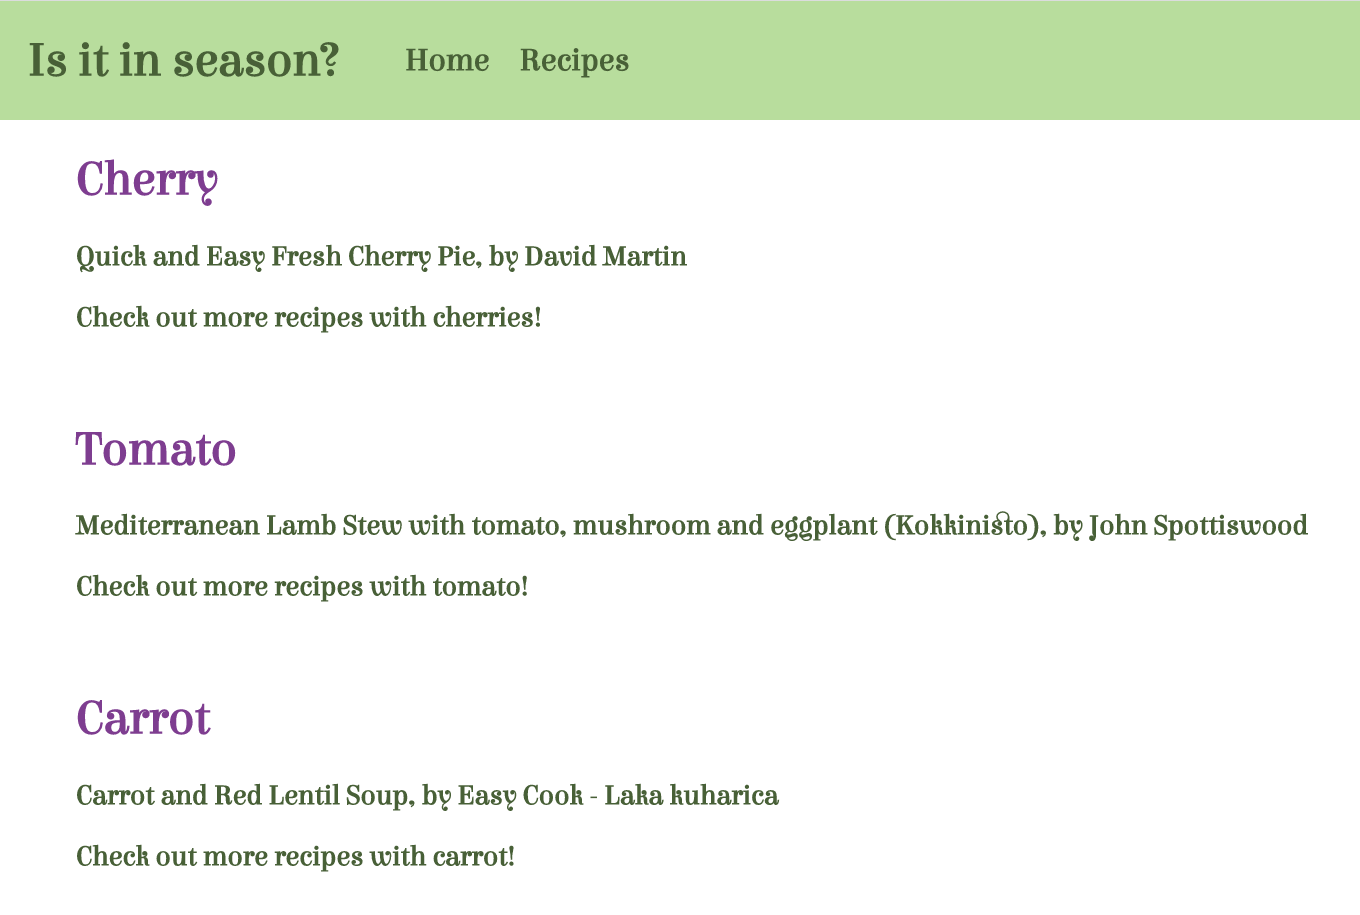
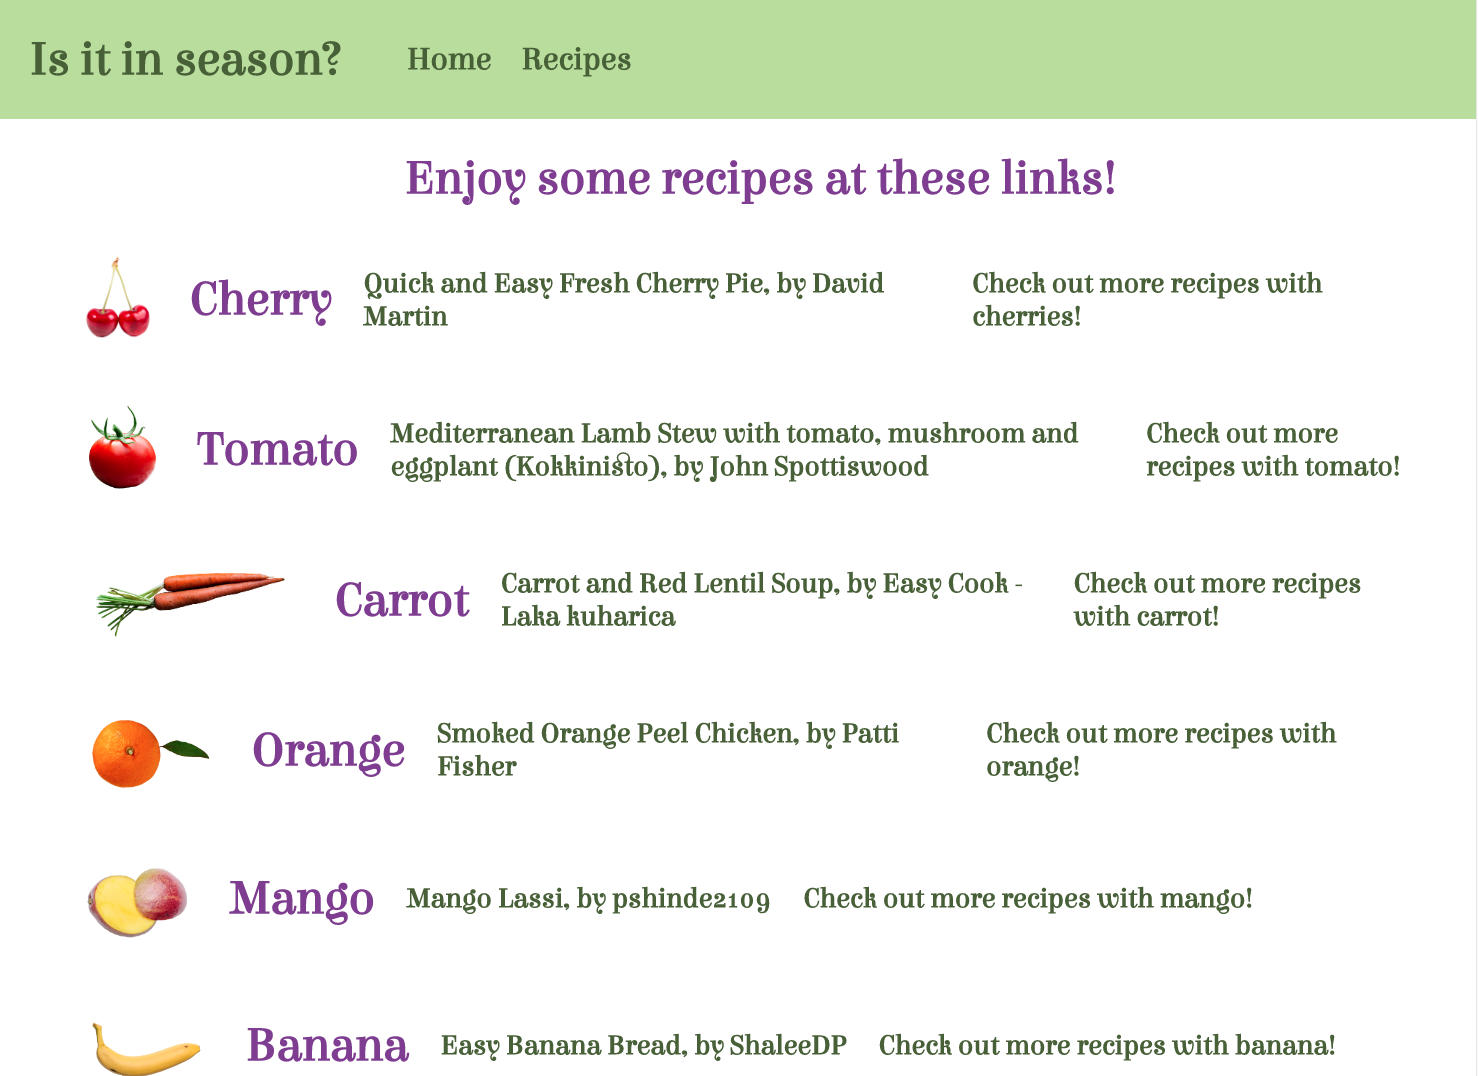
Update README with image credits and updated Recipes.js screenshot

diff --git a/README.md b/README.md
@@ -11,6 +11,7 @@ A React application that helps users find out when fruits and vegetables are in 
 #### 🍌 [Available Scripts](#available-scripts)
 #### 🫐 [Known Bugs](#known-bugs)
 #### 🥑 [License](#license)
+#### 🥕 [Image Credits](#image-credits)
 
 ## Technologies Used
 * React.js
@@ -31,9 +32,13 @@ A React application that helps users find out when fruits and vegetables are in 
 ![App plan](App-plan.png)
 
 ## Screenshots
+Splash/home page
 ![Splash page](splash-page.png)
+Hovering over an item for the link
 ![Fruit highlighted](splash-highlighted.png)
+Details about each item
 ![Details page](details.png)
+The recipes page
 ![Recipe links](recipes-page.png)
 
 ## Getting Started with Create React App
@@ -79,3 +84,21 @@ As of 15 May 2023, none.
 [MIT](https://opensource.org/license/mit/)
 
 Copyright (c) 2023
+
+## Image Credits
+All images were modified from photos posted to unsplash.com. You can find them here:
+* [Cherry, Quaritsch Photography](https://unsplash.com/photos/INprSEBbfG4)
+* [Tomato, Avin CP](https://unsplash.com/photos/OlXUUQedQyM)
+* [Carrots, Armando Arauz](https://unsplash.com/photos/R198mTymEFQ)
+* [Orange, Jaehoon Park](https://unsplash.com/photos/la3oGCK0YtI)
+* [Mango, Mockup Graphics](https://unsplash.com/photos/2BeAHd_Kmf8)
+* [Banana, Mockup Graphics](https://unsplash.com/photos/Kl3467edwsE)
+* [Kiwi, engin akyurt](https://unsplash.com/photos/jPVcZsxRGJo)
+* [Avocado, Gil Ndjouwou](https://unsplash.com/photos/cueV_oTVsic)
+* [Broccoli, Mockup Graphics](https://unsplash.com/photos/l55IGtwI8mI)
+* [Cauliflower, Jennifer Schmidt | jsfoodphotography](https://unsplash.com/photos/0XVrBLy73rw)
+* [Blueberries, Eiliv Aceron](https://unsplash.com/photos/-D6xO2LUVdk)
+* [Cabbage, Tomas Tuma](https://unsplash.com/photos/FJ_F5ROq8b4)
+* [Grapes, Andrey Haimin](https://unsplash.com/photos/qtwlKiu6VHg)
+* [Dragon fruit, Helen Thomas](https://unsplash.com/photos/vkVLkKi8H60)
+* [Watermelon, Art Rachen](https://unsplash.com/photos/izi5AnlbRIA)
